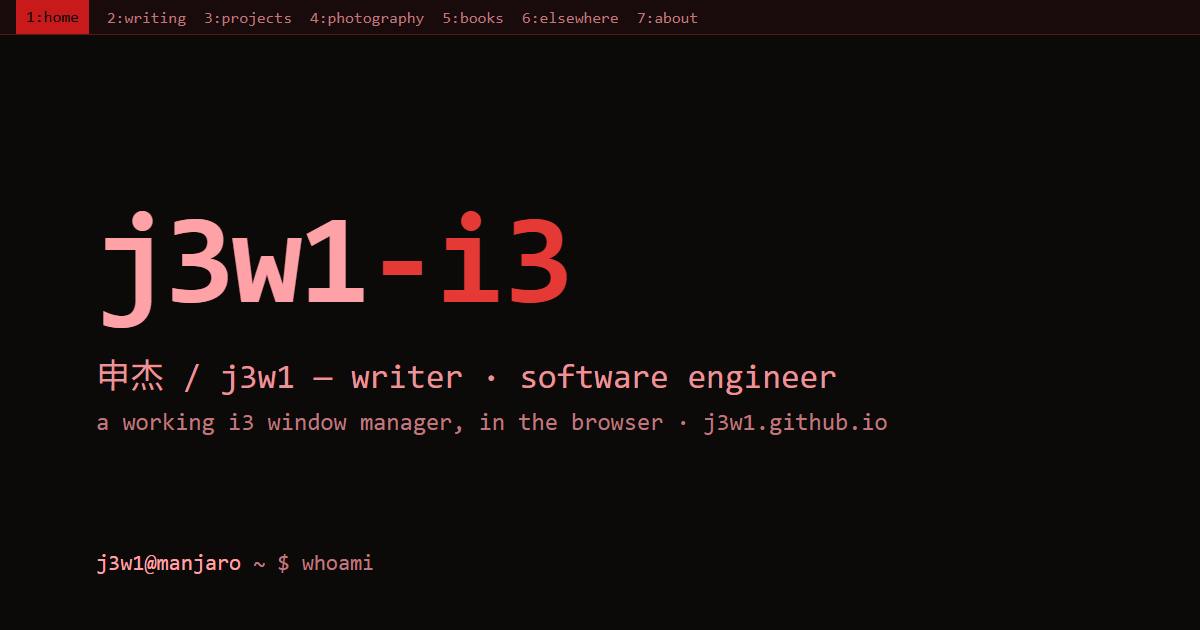
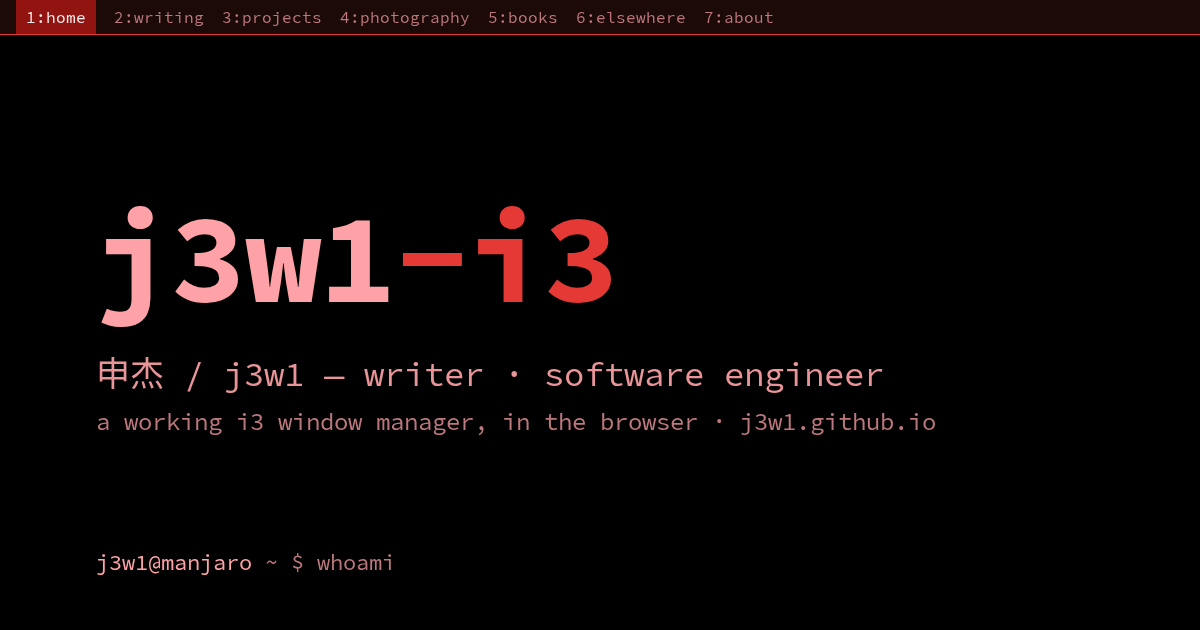
content: refresh identity, projects, links and about
The site's content last moved on 2026-09-04. Since then orchestrate became pod,
ce-metadata-reconciler became ce-metadata, and theme, pod and ce-signage are
public work. content/site.json now says so, and every surface follows:

- projects: eleven entries. pod, theme and ce-signage are added; Metadata
  Reconciler is CE Metadata; CE Governed Delivery and CE Systems are described
  as their repositories now describe them. CE Systems no longer claims
  MariaDB, which it does not use.
- home: the README and focus lines match the profile's current wording.
- about: current and public work name the same projects, with links; the
  interests add design systems and list what the work is actually done in.
- elsewhere: the theme portal and pod, seven links in all.

The social card is painted from the generated theme block, so it follows the
pin (true black now), and its fonts are inlined: a blank page could not load
them from file:// on Linux and fell back to a face with no glyphs for 申杰.

Both project statuslines now follow the selection; the detail window's was
static text that stayed on j3w1zsh.

diff --git a/index.html b/index.html
@@ -5,11 +5,11 @@
   <meta name="viewport" content="width=device-width, initial-scale=1">
   <!-- @generated-site:meta:start -->
   <title>j3w1 — Writer · Software Engineer</title>
-  <meta name="description" content="The personal workstation of 申杰 / j3w1 — writer and software engineer building business systems, developer tooling, and AI-assisted engineering workflows.">
+  <meta name="description" content="The personal workstation of 申杰 / j3w1 — writer and software engineer building governed execution tooling, business platforms, developer environments, and design systems.">
   <link rel="canonical" href="https://j3w1.github.io/">
   <meta property="og:site_name" content="j3w1">
   <meta property="og:title" content="j3w1 — Writer · Software Engineer">
-  <meta property="og:description" content="The personal workstation of 申杰 / j3w1 — writer and software engineer building business systems, developer tooling, and AI-assisted engineering workflows.">
+  <meta property="og:description" content="The personal workstation of 申杰 / j3w1 — writer and software engineer building governed execution tooling, business platforms, developer environments, and design systems.">
   <meta property="og:type" content="profile">
   <meta property="og:url" content="https://j3w1.github.io/">
   <meta property="og:image" content="https://j3w1.github.io/assets/social/default.png">
@@ -18,7 +18,7 @@
   <meta property="og:locale" content="en_US">
   <meta name="twitter:card" content="summary_large_image">
   <meta name="twitter:title" content="j3w1 — Writer · Software Engineer">
-  <meta name="twitter:description" content="The personal workstation of 申杰 / j3w1 — writer and software engineer building business systems, developer tooling, and AI-assisted engineering workflows.">
+  <meta name="twitter:description" content="The personal workstation of 申杰 / j3w1 — writer and software engineer building governed execution tooling, business platforms, developer environments, and design systems.">
   <meta name="twitter:image" content="https://j3w1.github.io/assets/social/default.png">
   <!-- @generated-site:meta:end -->
   <link rel="preload" href="/assets/fonts/sauce-code-pro-text.woff2?v=db62d388" as="font" type="font/woff2" crossorigin>
@@ -116,7 +116,7 @@
         "alternateName": "j3w1",
         "url": "https://j3w1.github.io/",
         "image": "https://j3w1.github.io/assets/social/default.png",
-        "description": "The personal workstation of 申杰 / j3w1 — writer and software engineer building business systems, developer tooling, and AI-assisted engineering workflows.",
+        "description": "The personal workstation of 申杰 / j3w1 — writer and software engineer building governed execution tooling, business platforms, developer environments, and design systems.",
         "jobTitle": [
           "Writer",
           "Software Engineer"
@@ -176,15 +176,16 @@
 
             <p class="terminal-line"><span class="shell-prompt agnoster"><span class="prompt-path">~</span><span class="prompt-mark" aria-hidden="true">&#xe0b0;</span><span class="prompt-space"> </span></span><span class="command">cat ~/j3w1/README</span></p>
             <div class="terminal-output readable-output" data-site-readme>
-              <p>I build the machinery behind dependable work: business platforms, developer environments, and delivery automation designed to be clear, secure, recoverable, and useful long after the first release.</p>
-              <p>My current work spans business systems, governed delivery, and developer tooling.</p>
+              <p>I build calm, dependable software for real work: governed execution tooling, business platforms, developer environments, and design systems — with clear contracts, useful evidence, and foundations meant to last.</p>
+              <p>Building now: pod, CE Systems, and CE Metadata. Public work: theme, j3w1zsh, and this site.</p>
             </div>
 
             <p class="terminal-line"><span class="shell-prompt agnoster"><span class="prompt-path">~</span><span class="prompt-mark" aria-hidden="true">&#xe0b0;</span><span class="prompt-space"> </span></span><span class="command">printf '%s\n' focus/*</span></p>
             <ul class="terminal-list" aria-label="Primary areas of focus">
-              <li><span>focus/systems</span> business operations</li>
-              <li><span>focus/tooling</span> resumable developer environments</li>
-              <li><span>focus/practice</span> governed delivery and automation</li>
+              <li><span>focus/systems</span> business platforms for real operations</li>
+              <li><span>focus/tooling</span> agent coordination and developer environments</li>
+              <li><span>focus/design</span> one design system, machine-readable</li>
+              <li><span>focus/practice</span> governed delivery, evidence, verification</li>
             </ul>
 
             <p class="terminal-line terminal-ready"><span class="shell-prompt agnoster"><span class="prompt-path">~</span><span class="prompt-mark" aria-hidden="true">&#xe0b0;</span><span class="prompt-space"> </span></span><span class="terminal-cursor" aria-hidden="true"></span></p>
@@ -224,10 +225,10 @@
               <div class="file-row file-header" aria-hidden="true"><span>Name</span><span>Type</span><span>State</span></div>
               <a class="file-row is-selected" href="#home" data-workspace-link="home"><span><span class="file-icon ui-icon" aria-hidden="true">&#xf07b;</span>home/</span><span>Workspace</span><span>open</span></a>
               <a class="file-row" href="#writing" data-workspace-link="writing"><span><span class="file-icon ui-icon" aria-hidden="true">&#xf044;</span>writing/</span><span>Vim buffer</span><span data-content-count="writing">0 entries</span></a>
-              <a class="file-row" href="#projects" data-workspace-link="projects"><span><span class="file-icon ui-icon" aria-hidden="true">&#xf0ae;</span>projects/</span><span>Application</span><span>8 entries</span></a>
+              <a class="file-row" href="#projects" data-workspace-link="projects"><span><span class="file-icon ui-icon" aria-hidden="true">&#xf0ae;</span>projects/</span><span>Application</span><span>11 entries</span></a>
               <a class="file-row" href="#photography" data-workspace-link="photography"><span><span class="file-icon ui-icon" aria-hidden="true">&#xf030;</span>photography/</span><span>Directory</span><span data-content-count="photography">0 entries</span></a>
               <a class="file-row" href="#books" data-workspace-link="books"><span><span class="file-icon ui-icon" aria-hidden="true">&#xf02d;</span>books/</span><span>Library</span><span data-content-count="books">0 entries</span></a>
-              <a class="file-row" href="#elsewhere" data-workspace-link="elsewhere"><span><span class="file-icon ui-icon" aria-hidden="true">&#xf0ac;</span>elsewhere/</span><span>Links</span><span>5 entries</span></a>
+              <a class="file-row" href="#elsewhere" data-workspace-link="elsewhere"><span><span class="file-icon ui-icon" aria-hidden="true">&#xf0ac;</span>elsewhere/</span><span>Links</span><span>7 entries</span></a>
               <a class="file-row" href="#about" data-workspace-link="about"><span><span class="file-icon ui-icon" aria-hidden="true">&#xf129;</span>about/</span><span>Vim buffer</span><span>readable</span></a>
             </div>
             <!-- @generated-site:home-files:end -->
@@ -272,11 +273,11 @@
       <div class="workspace-layer projects-grid" data-wm-layer="projects">
         <!-- @generated-site:projects:start -->
         <article class="window pane project-window is-focused" data-wm-window="projects-table" data-wm-title="projects" tabindex="0" aria-label="Projects application">
-          <header class="window-titlebar"><span>[8 entries] projects — j3w1</span><span class="window-marks" aria-hidden="true">─ □ ×</span></header>
+          <header class="window-titlebar"><span>[11 entries] projects — j3w1</span><span class="window-marks" aria-hidden="true">─ □ ×</span></header>
           <div class="app-menu" aria-hidden="true"><span>Project</span><span>Edit</span><span>View</span><span>Tools</span><span>Help</span></div>
           <div class="project-toolbar">
-            <button class="toolbar-label project-filter-button" type="button" data-project-visibility="all" aria-pressed="true"><span class="ui-icon" aria-hidden="true">&#xf0ae;</span><span class="project-filter-label">All projects</span><span data-project-count="all">(8)</span></button>
-            <button class="toolbar-label project-filter-button" type="button" data-project-visibility="public" aria-pressed="false"><span class="ui-icon" aria-hidden="true">&#xf0ac;</span><span class="project-filter-label">Public</span><span data-project-count="public">(5)</span></button>
+            <button class="toolbar-label project-filter-button" type="button" data-project-visibility="all" aria-pressed="true"><span class="ui-icon" aria-hidden="true">&#xf0ae;</span><span class="project-filter-label">All projects</span><span data-project-count="all">(11)</span></button>
+            <button class="toolbar-label project-filter-button" type="button" data-project-visibility="public" aria-pressed="false"><span class="ui-icon" aria-hidden="true">&#xf0ac;</span><span class="project-filter-label">Public</span><span data-project-count="public">(8)</span></button>
             <button class="toolbar-label project-filter-button" type="button" data-project-visibility="internal" aria-pressed="false"><span class="ui-icon" aria-hidden="true">&#xf023;</span><span class="project-filter-label">Internal</span><span data-project-count="internal">(3)</span></button>
             <label class="filter-field" for="project-filter"><span class="ui-icon" aria-hidden="true">&#xf002;</span><span class="sr-only">Filter projects</span><input id="project-filter" type="search" autocomplete="off" placeholder="Filter project name…"></label>
           </div>
@@ -293,35 +294,41 @@
                 </colgroup>
                 <thead><tr><th scope="col">#</th><th scope="col">Name</th><th scope="col">Type / stack</th><th scope="col">State</th><th scope="col">Repository</th></tr></thead>
                 <tbody>
-                  <tr data-project-row="ce-systems" data-visibility="internal"><td><button class="project-selector" type="button" data-project="ce-systems" aria-pressed="false" aria-label="Show CE Systems details">01</button></td><td>CE Systems</td><td>Laravel · PHP · Vue</td><td>Active</td><td>Private / internal</td></tr>
-                  <tr data-project-row="ce-gd" data-visibility="internal"><td><button class="project-selector" type="button" data-project="ce-gd" aria-pressed="false" aria-label="Show CE Governed Delivery details">02</button></td><td>CE Governed Delivery</td><td>Evidence · Review · Controls</td><td>Active</td><td>Private / internal</td></tr>
-                  <tr data-project-row="metadata-reconciler" data-visibility="internal"><td><button class="project-selector" type="button" data-project="metadata-reconciler" aria-pressed="false" aria-label="Show Metadata Reconciler details">03</button></td><td>Metadata Reconciler</td><td>GitHub · Metadata · Automation</td><td>Active</td><td>Private / internal</td></tr>
-                  <tr class="is-selected" data-project-row="j3w1zsh" data-visibility="public"><td><button class="project-selector" type="button" data-project="j3w1zsh" aria-pressed="true" aria-label="Show j3w1zsh details">04</button></td><td>j3w1zsh</td><td>Shell · Zsh · Arch · WSL</td><td>Maintained</td><td><a href="https://github.com/j3w1/j3w1zsh">GitHub ↗</a></td></tr>
-                  <tr data-project-row="1688tocsv" data-visibility="public"><td><button class="project-selector" type="button" data-project="1688tocsv" aria-pressed="false" aria-label="Show 1688toCSV details">05</button></td><td>1688toCSV</td><td>JavaScript · Chrome · CSV</td><td>Current</td><td><a href="https://github.com/j3w1/1688toCSV">GitHub ↗</a></td></tr>
-                  <tr data-project-row="website" data-visibility="public"><td><button class="project-selector" type="button" data-project="website" aria-pressed="false" aria-label="Show j3w1.github.io details">06</button></td><td>j3w1.github.io</td><td>HTML · CSS · JavaScript</td><td>Active</td><td><a href="https://github.com/j3w1/j3w1.github.io">GitHub ↗</a></td></tr>
-                  <tr data-project-row="1w3j" data-visibility="public"><td><button class="project-selector" type="button" data-project="1w3j" aria-pressed="false" aria-label="Show 1w3j details">07</button></td><td>1w3j</td><td>Shell · dotfiles · themes</td><td>Legacy</td><td><a href="https://github.com/j3w1/1w3j">GitHub ↗</a></td></tr>
-                  <tr data-project-row="ce-desktop" data-visibility="public"><td><button class="project-selector" type="button" data-project="ce-desktop" aria-pressed="false" aria-label="Show CE Desktop details">08</button></td><td>CE Desktop</td><td>Java · JavaFX</td><td>Historical</td><td><a href="https://github.com/j3w1/CEDesktop">GitHub ↗</a></td></tr>
+                  <tr data-project-row="pod" data-visibility="public"><td><button class="project-selector" type="button" data-project="pod" aria-pressed="false" aria-label="Show pod details">01</button></td><td>pod</td><td>Python · Agent skills · Orca</td><td>Active</td><td><a href="https://github.com/j3w1/pod">GitHub ↗</a></td></tr>
+                  <tr data-project-row="ce-systems" data-visibility="internal"><td><button class="project-selector" type="button" data-project="ce-systems" aria-pressed="false" aria-label="Show CE Systems details">02</button></td><td>CE Systems</td><td>Laravel · Vue · TypeScript</td><td>Active</td><td>Private / internal</td></tr>
+                  <tr data-project-row="ce-gd" data-visibility="internal"><td><button class="project-selector" type="button" data-project="ce-gd" aria-pressed="false" aria-label="Show CE Governed Delivery details">03</button></td><td>CE Governed Delivery</td><td>Controller · Review · Reconciliation</td><td>Active</td><td>Private / internal</td></tr>
+                  <tr data-project-row="ce-metadata" data-visibility="internal"><td><button class="project-selector" type="button" data-project="ce-metadata" aria-pressed="false" aria-label="Show CE Metadata details">04</button></td><td>CE Metadata</td><td>GitHub · Metadata · Control plane</td><td>Active</td><td>Private / internal</td></tr>
+                  <tr data-project-row="theme" data-visibility="public"><td><button class="project-selector" type="button" data-project="theme" aria-pressed="false" aria-label="Show theme details">05</button></td><td>theme</td><td>Design tokens · Components · Accessibility</td><td>Active</td><td><a href="https://github.com/j3w1/theme">GitHub ↗</a></td></tr>
+                  <tr class="is-selected" data-project-row="j3w1zsh" data-visibility="public"><td><button class="project-selector" type="button" data-project="j3w1zsh" aria-pressed="true" aria-label="Show j3w1zsh details">06</button></td><td>j3w1zsh</td><td>Shell · Zsh · Arch · WSL · Termux</td><td>Maintained</td><td><a href="https://github.com/j3w1/j3w1zsh">GitHub ↗</a></td></tr>
+                  <tr data-project-row="website" data-visibility="public"><td><button class="project-selector" type="button" data-project="website" aria-pressed="false" aria-label="Show j3w1.github.io details">07</button></td><td>j3w1.github.io</td><td>HTML · CSS · JavaScript</td><td>Active</td><td><a href="https://github.com/j3w1/j3w1.github.io">GitHub ↗</a></td></tr>
+                  <tr data-project-row="ce-signage" data-visibility="public"><td><button class="project-selector" type="button" data-project="ce-signage" aria-pressed="false" aria-label="Show ce-signage details">08</button></td><td>ce-signage</td><td>PowerShell · FFmpeg · VLC</td><td>Current</td><td><a href="https://github.com/j3w1/ce-signage">GitHub ↗</a></td></tr>
+                  <tr data-project-row="1688tocsv" data-visibility="public"><td><button class="project-selector" type="button" data-project="1688tocsv" aria-pressed="false" aria-label="Show 1688toCSV details">09</button></td><td>1688toCSV</td><td>JavaScript · Chrome · CSV</td><td>Current</td><td><a href="https://github.com/j3w1/1688toCSV">GitHub ↗</a></td></tr>
+                  <tr data-project-row="1w3j" data-visibility="public"><td><button class="project-selector" type="button" data-project="1w3j" aria-pressed="false" aria-label="Show 1w3j details">10</button></td><td>1w3j</td><td>Shell · dotfiles · themes</td><td>Legacy</td><td><a href="https://github.com/j3w1/1w3j">GitHub ↗</a></td></tr>
+                  <tr data-project-row="ce-desktop" data-visibility="public"><td><button class="project-selector" type="button" data-project="ce-desktop" aria-pressed="false" aria-label="Show CE Desktop details">11</button></td><td>CE Desktop</td><td>Java · JavaFX</td><td>Historical</td><td><a href="https://github.com/j3w1/CEDesktop">GitHub ↗</a></td></tr>
                 </tbody>
               </table>
             </div>
           </div>
-          <footer class="app-statusline"><span>8 entries</span><span>5 public</span><span>3 internal</span><span class="status-fill">selection: <span id="project-status-selection">j3w1zsh</span></span></footer>
+          <footer class="app-statusline"><span>11 entries</span><span>8 public</span><span>3 internal</span><span class="status-fill">selection: <span id="project-status-selection" data-project-selection>j3w1zsh</span></span></footer>
         </article>
 
         <article class="window pane project-window" data-wm-window="projects-detail" data-wm-title="project detail" tabindex="0" aria-label="Project detail">
           <header class="window-titlebar"><span>project detail — j3w1</span><span class="window-marks" aria-hidden="true">─ □ ×</span></header>
           <div class="project-detail-pane" aria-live="polite">
             <p id="project-no-results" class="compact-state" hidden>No projects match this view.</p>
-            <article class="project-detail" data-project-detail="ce-systems"><header><span>CE Systems</span><span>private / internal · active</span></header><p>An internal business operations platform for Casa Elida, covering retail, inventory, purchasing, imports and logistics, finance, and organizational workflows.</p><dl><div><dt>Stack</dt><dd>Laravel · PHP · Vue · TypeScript · MariaDB</dd></div><div><dt>Context</dt><dd>Business systems for real operations</dd></div><div><dt>Repository</dt><dd>Private; no public link</dd></div></dl></article>
-            <article class="project-detail" data-project-detail="ce-gd"><header><span>CE Governed Delivery</span><span>private / internal · active</span></header><p>An isolated, evidence-driven engineering-governance initiative focused on bounded AI assistance, delivery control, and dependable human decision points.</p><dl><div><dt>Practice</dt><dd>Evidence · Review · Delivery controls</dd></div><div><dt>Context</dt><dd>Engineering governance</dd></div><div><dt>Repository</dt><dd>Private; no public link</dd></div></dl></article>
-            <article class="project-detail" data-project-detail="metadata-reconciler"><header><span>Metadata Reconciler</span><span>private / internal · active</span></header><p>A deterministic GitHub metadata-operations project for reconciling repository metadata through explicit, reviewable automation.</p><dl><div><dt>Practice</dt><dd>GitHub automation · Metadata · Reconciliation</dd></div><div><dt>Context</dt><dd>Delivery operations</dd></div><div><dt>Repository</dt><dd>Private; no public link</dd></div></dl></article>
+            <article class="project-detail" data-project-detail="pod"><header><span>pod</span><span>public · active</span></header><p>Turns the Codex or Claude Code session already open in Orca into the coordinator of a pod of agents: it plans the objective, chooses direct work or workers in isolated worktrees, and binds every result to its evidence.</p><dl><div><dt>Install</dt><dd>npx skills add j3w1/pod --skill pod</dd></div><div><dt>Context</dt><dd>Agent coordination</dd></div><div><dt>Repository</dt><dd><a href="https://github.com/j3w1/pod">github.com/j3w1/pod ↗</a></dd></div></dl></article>
+            <article class="project-detail" data-project-detail="ce-systems"><header><span>CE Systems</span><span>private / internal · active</span></header><p>Casa Elida's modular enterprise platform for retail, inventory, purchasing, logistics, finance, people operations, ecommerce, and reporting.</p><dl><div><dt>Stack</dt><dd>Laravel · PHP · Vue · TypeScript</dd></div><div><dt>Context</dt><dd>Business systems for real operations</dd></div><div><dt>Repository</dt><dd>Private; no public link</dd></div></dl></article>
+            <article class="project-detail" data-project-detail="ce-gd"><header><span>CE Governed Delivery</span><span>private / internal · active</span></header><p>A credential-isolated controller for governed CE Systems review, correction, merge, and delivery reconciliation, keeping AI assistance bounded and human decision points dependable.</p><dl><div><dt>Practice</dt><dd>Governed review · Bounded merge · Delivery reconciliation</dd></div><div><dt>Context</dt><dd>Engineering governance</dd></div><div><dt>Repository</dt><dd>Private; no public link</dd></div></dl></article>
+            <article class="project-detail" data-project-detail="ce-metadata"><header><span>CE Metadata</span><span>private / internal · active</span></header><p>A deterministic control plane for GitHub metadata, with reviewable plans, bounded writes, and exact readback.</p><dl><div><dt>Practice</dt><dd>Reviewable plans · Bounded writes · Exact readback</dd></div><div><dt>Context</dt><dd>Delivery operations</dd></div><div><dt>Repository</dt><dd>Private; no public link</dd></div></dl></article>
+            <article class="project-detail" data-project-detail="theme"><header><span>theme</span><span>public · active</span></header><p>The canonical j3w1 design system: tokens, components, accessibility rules, ports, and machine-readable exports. This site consumes its approved default profile as a pinned CSS-variable export.</p><dl><div><dt>Portal</dt><dd><a href="https://j3w1.github.io/theme/">j3w1.github.io/theme/ ↗</a></dd></div><div><dt>Context</dt><dd>Design system</dd></div><div><dt>Repository</dt><dd><a href="https://github.com/j3w1/theme">github.com/j3w1/theme ↗</a></dd></div></dl></article>
             <article class="project-detail is-selected" data-project-detail="j3w1zsh"><header><span>j3w1zsh</span><span>public · maintained</span></header><p>A portable, resumable Zsh workstation framework for native Arch Linux, Arch WSL 2, and Termux, with presets, themes, project workspaces, migration, and remote-session support.</p><dl><div><dt>Stack</dt><dd>Shell · Zsh · Arch Linux · WSL · Termux</dd></div><div><dt>Context</dt><dd>Current public workstation framework</dd></div><div><dt>Repository</dt><dd><a href="https://github.com/j3w1/j3w1zsh">github.com/j3w1/j3w1zsh ↗</a></dd></div></dl></article>
+            <article class="project-detail" data-project-detail="website"><header><span>j3w1.github.io</span><span>public · active</span></header><p>The dependency-free source for this site: a working i3 window manager in the browser, published verbatim by GitHub Pages.</p><dl><div><dt>Stack</dt><dd>Semantic HTML · CSS · Vanilla JavaScript</dd></div><div><dt>Context</dt><dd>Personal website</dd></div><div><dt>Repository</dt><dd><a href="https://github.com/j3w1/j3w1.github.io">github.com/j3w1/j3w1.github.io ↗</a></dd></div></dl></article>
+            <article class="project-detail" data-project-detail="ce-signage"><header><span>ce-signage</span><span>public · current</span></header><p>Digital signage for Casa Elida's Windows 10 cashier PCs: cashiers drop images and videos into a folder, and a controller validates them with FFmpeg, rebuilds a randomized playlist, and plays it fullscreen on the second monitor.</p><dl><div><dt>Stack</dt><dd>PowerShell · FFmpeg · VLC · Windows 10</dd></div><div><dt>Context</dt><dd>Retail operations</dd></div><div><dt>Repository</dt><dd><a href="https://github.com/j3w1/ce-signage">github.com/j3w1/ce-signage ↗</a></dd></div></dl></article>
             <article class="project-detail" data-project-detail="1688tocsv"><header><span>1688toCSV</span><span>public · current</span></header><p>A compact Chrome extension that exports 1688.com order details into a clean CSV for practical downstream use.</p><dl><div><dt>Stack</dt><dd>JavaScript · Browser extension · CSV</dd></div><div><dt>Context</dt><dd>Focused order-data export</dd></div><div><dt>Repository</dt><dd><a href="https://github.com/j3w1/1688toCSV">github.com/j3w1/1688toCSV ↗</a></dd></div></dl></article>
-            <article class="project-detail" data-project-detail="website"><header><span>j3w1.github.io</span><span>public · active</span></header><p>The dependency-free source for this personal site, published directly by GitHub Pages.</p><dl><div><dt>Stack</dt><dd>Semantic HTML · CSS · Vanilla JavaScript</dd></div><div><dt>Context</dt><dd>Personal website</dd></div><div><dt>Repository</dt><dd><a href="https://github.com/j3w1/j3w1.github.io">github.com/j3w1/j3w1.github.io ↗</a></dd></div></dl></article>
-            <article class="project-detail" data-project-detail="1w3j"><header><span>1w3j</span><span>public · legacy</span></header><p>An earlier generation of personal Linux workstation configuration, scripts, themes, package lists, and bootstrap tooling. j3w1zsh is the current public workstation framework.</p><dl><div><dt>Period</dt><dd>2017–2021</dd></div><div><dt>Context</dt><dd>Preserved workstation history</dd></div><div><dt>Repository</dt><dd><a href="https://github.com/j3w1/1w3j">github.com/j3w1/1w3j ↗</a></dd></div></dl></article>
-            <article class="project-detail" data-project-detail="ce-desktop"><header><span>CE Desktop</span><span>public · historical</span></header><p>An earlier JavaFX enterprise desktop application prototype, preserved as part of the public project history.</p><dl><div><dt>Stack</dt><dd>Java · JavaFX</dd></div><div><dt>Context</dt><dd>Enterprise desktop prototype</dd></div><div><dt>Repository</dt><dd><a href="https://github.com/j3w1/CEDesktop">github.com/j3w1/CEDesktop ↗</a></dd></div></dl></article>
+            <article class="project-detail" data-project-detail="1w3j"><header><span>1w3j</span><span>public · legacy</span></header><p>An earlier generation of personal Linux workstation configuration, scripts, themes, package lists, and bootstrap tooling. j3w1zsh is the current public workstation framework, and this site's desktop is its reinterpretation.</p><dl><div><dt>Period</dt><dd>2017–2021</dd></div><div><dt>Context</dt><dd>Preserved workstation history</dd></div><div><dt>Repository</dt><dd><a href="https://github.com/j3w1/1w3j">github.com/j3w1/1w3j ↗</a></dd></div></dl></article>
+            <article class="project-detail" data-project-detail="ce-desktop"><header><span>CE Desktop</span><span>public · historical</span></header><p>An earlier JavaFX prototype for a Material Design Casa Elida enterprise desktop application, preserved as part of the public project history.</p><dl><div><dt>Stack</dt><dd>Java · JavaFX</dd></div><div><dt>Context</dt><dd>Enterprise desktop prototype</dd></div><div><dt>Repository</dt><dd><a href="https://github.com/j3w1/CEDesktop">github.com/j3w1/CEDesktop ↗</a></dd></div></dl></article>
           </div>
-          <footer class="app-statusline"><span>detail</span><span class="status-fill">selection: j3w1zsh</span></footer>
+          <footer class="app-statusline"><span>detail</span><span class="status-fill">selection: <span data-project-selection>j3w1zsh</span></span></footer>
         </article>
         <!-- @generated-site:projects:end -->
 
@@ -396,11 +403,13 @@
           <header class="window-titlebar"><span>j3w1@manjaro: ~/elsewhere</span><span class="window-marks" aria-hidden="true">─ □ ×</span></header>
           <div class="terminal-buffer" role="document">
             <p class="terminal-line"><span class="prompt-user">j3w1</span><span class="prompt-at">@</span><span class="prompt-host">manjaro</span><span class="prompt-path"> ~/elsewhere</span><span class="prompt-mark"> $ </span><span class="command">ls -l</span></p>
-            <p class="terminal-output terminal-muted">total 5</p>
+            <p class="terminal-output terminal-muted">total 7</p>
             <ul class="link-list" aria-label="Public external destinations">
               <li><span class="permissions" aria-hidden="true">lrwxrwxrwx</span><a href="/wiki/">wiki</a><span aria-hidden="true"> → </span><span>how to use this workstation</span></li>
               <li><span class="permissions" aria-hidden="true">lrwxrwxrwx</span><a href="https://github.com/j3w1" rel="me">github</a><span aria-hidden="true"> → </span><span>https://github.com/j3w1</span></li>
               <li><span class="permissions" aria-hidden="true">lrwxrwxrwx</span><a href="https://github.com/j3w1/j3w1.github.io">site-source</a><span aria-hidden="true"> → </span><span>https://github.com/j3w1/j3w1.github.io</span></li>
+              <li><span class="permissions" aria-hidden="true">lrwxrwxrwx</span><a href="https://j3w1.github.io/theme/">theme</a><span aria-hidden="true"> → </span><span>the j3w1 design system</span></li>
+              <li><span class="permissions" aria-hidden="true">lrwxrwxrwx</span><a href="https://github.com/j3w1/pod">pod</a><span aria-hidden="true"> → </span><span>https://github.com/j3w1/pod</span></li>
               <li><span class="permissions" aria-hidden="true">lrwxrwxrwx</span><a href="https://github.com/j3w1/j3w1zsh">current-workstation</a><span aria-hidden="true"> → </span><span>https://github.com/j3w1/j3w1zsh</span></li>
               <li><span class="permissions" aria-hidden="true">lrwxrwxrwx</span><a href="https://github.com/j3w1/1w3j">legacy-workstation</a><span aria-hidden="true"> → </span><span>https://github.com/j3w1/1w3j</span></li>
             </ul>
@@ -408,7 +417,7 @@
             <p class="terminal-output readable-output">GitHub is the only public profile linked from this site.</p>
             <p class="terminal-line terminal-ready"><span class="prompt-user">j3w1</span><span class="prompt-at">@</span><span class="prompt-host">manjaro</span><span class="prompt-path"> ~/elsewhere</span><span class="prompt-mark"> $ </span><span class="terminal-cursor" aria-hidden="true"></span></p>
           </div>
-          <footer class="terminal-statusline"><span>URxvt</span><span>5 links</span><span class="status-fill">~/elsewhere</span></footer>
+          <footer class="terminal-statusline"><span>URxvt</span><span>7 links</span><span class="status-fill">~/elsewhere</span></footer>
         </article>
         <!-- @generated-site:elsewhere:end -->
         <div class="wm-empty" data-wm-empty hidden>
@@ -432,11 +441,11 @@
             <div class="prose-line prose-line-blank" data-line="3"><span></span></div>
             <div class="prose-line" data-line="4"><p>I work on software that has to survive contact with real organizations: business systems, operational workflows, and the tools engineers use to build and maintain them.</p></div>
             <div class="prose-line prose-line-blank" data-line="5"><span></span></div>
-            <div class="prose-line" data-line="6"><p>My interests connect software architecture with writing and developer environments. I care about clear boundaries, recoverable workflows, evidence that can be checked, and systems that remain understandable after the original implementation context is gone.</p></div>
+            <div class="prose-line" data-line="6"><p>My interests connect software architecture with writing and developer environments. I care about clear contracts, recoverable workflows, evidence that can be checked, and systems that remain understandable after the original implementation context is gone.</p></div>
             <div class="prose-line prose-line-blank" data-line="7"><span></span></div>
-            <div class="prose-line" data-line="8"><p>Current work includes CE Systems, an internal operations platform for Casa Elida; CE Governed Delivery, an evidence-driven engineering-governance effort; and Metadata Reconciler, deterministic GitHub metadata operations.</p></div>
+            <div class="prose-line" data-line="8"><p>Current work includes <a href="https://github.com/j3w1/pod">pod</a>, which turns an Orca coding session into the coordinator of a pod of agents; CE Systems, Casa Elida's modular enterprise platform; CE Governed Delivery, a credential-isolated controller for governed review, merge, and delivery; and CE Metadata, a deterministic control plane for GitHub metadata.</p></div>
             <div class="prose-line prose-line-blank" data-line="9"><span></span></div>
-            <div class="prose-line current-line" data-line="10"><p>Public work includes <a href="https://github.com/j3w1/j3w1zsh">j3w1zsh</a>, a portable, resumable Zsh workstation framework for Arch Linux, WSL, and Termux; <a href="https://github.com/j3w1/1688toCSV">1688toCSV</a>, a focused browser extension for practical order-data export; and <a href="https://github.com/j3w1/j3w1.github.io">the source for this site</a>.</p></div>
+            <div class="prose-line current-line" data-line="10"><p>Public work includes <a href="https://github.com/j3w1/theme">theme</a>, the canonical j3w1 design system this site is dressed in; <a href="https://github.com/j3w1/j3w1zsh">j3w1zsh</a>, a portable, resumable workstation framework for Arch Linux, Arch WSL 2, and Termux; <a href="https://github.com/j3w1/ce-signage">ce-signage</a>, digital signage for Casa Elida's cashier PCs; <a href="https://github.com/j3w1/1688toCSV">1688toCSV</a>, a focused browser extension for order-data export; and <a href="https://github.com/j3w1/j3w1.github.io">the source for this site</a>.</p></div>
           </div>
           <footer class="vim-statusline"><span class="vim-mode">NORMAL</span><span>about.md</span><span class="status-fill">utf-8 · markdown</span><span>10,1</span></footer>
         </article>
@@ -446,11 +455,12 @@
             <div class="prose-line" data-line="1"><p class="syntax-heading">## working interests</p></div>
             <div class="prose-line prose-line-blank" data-line="2"><span></span></div>
             <div class="prose-line about-list-line" data-line="3"><p><span>· business systems</span> operational software, architecture, data, and organizational workflows</p></div>
-            <div class="prose-line about-list-line" data-line="4"><p><span>· engineering systems</span> developer tooling, automation, review evidence, and delivery controls</p></div>
-            <div class="prose-line about-list-line" data-line="5"><p><span>· writing environments</span> Linux, Arch, WSL, Termux, Neovim, tmux, and JetBrains tooling</p></div>
-            <div class="prose-line about-list-line current-line" data-line="6"><p><span>· selected stack</span> Laravel, PHP, Vue, TypeScript, MariaDB, Redis, and GitHub Actions</p></div>
+            <div class="prose-line about-list-line" data-line="4"><p><span>· engineering systems</span> governed execution, agent coordination, developer tooling, review evidence, and delivery controls</p></div>
+            <div class="prose-line about-list-line" data-line="5"><p><span>· design systems</span> tokens, components, accessibility rules, and machine-readable exports</p></div>
+            <div class="prose-line about-list-line" data-line="6"><p><span>· writing environments</span> Linux, Arch, WSL, Termux, Neovim, tmux, and JetBrains tooling</p></div>
+            <div class="prose-line about-list-line current-line" data-line="7"><p><span>· working with</span> Python, TypeScript, JavaScript, Laravel, Vue, Shell, GitHub Actions, and testing and verification</p></div>
           </div>
-          <footer class="vim-statusline"><span class="vim-mode">NORMAL</span><span>interests.md</span><span class="status-fill">utf-8 · markdown</span><span>6,1</span></footer>
+          <footer class="vim-statusline"><span class="vim-mode">NORMAL</span><span>interests.md</span><span class="status-fill">utf-8 · markdown</span><span>7,1</span></footer>
         </article>
         <!-- @generated-site:about:end -->
         <div class="wm-empty" data-wm-empty hidden>

diff --git a/test/browser/wm.spec.js b/test/browser/wm.spec.js
@@ -208,6 +208,7 @@ test("Alt+dragging a title bar floats a window and keeps it on screen", async ({
 test("an ordinary click still selects a project row rather than starting a drag", async ({ page }) => {
   await open(page, "/#projects");
   await page.locator('[data-project-row="1688tocsv"] .project-selector').click();
+  await expect(page.locator("[data-project-selection]")).toHaveText(["1688toCSV", "1688toCSV"]);
   await expect(page.locator('[data-project-detail="1688tocsv"]')).toHaveClass(/is-selected/);
   await expect(page.locator("#project-status-selection")).toHaveText("1688toCSV");
 });

diff --git a/assets/js/site.js b/assets/js/site.js
@@ -177,8 +177,9 @@ const selectProject = (projectId) => {
     candidate.classList.toggle("is-selected", candidate === detail);
   });
 
-  const selectionStatus = document.querySelector("#project-status-selection");
-  if (selectionStatus) selectionStatus.textContent = row.cells[1]?.textContent.trim() ?? projectId;
+  /* Both windows' statuslines report the selection. */
+  const name = row.cells[1]?.textContent.trim() ?? projectId;
+  document.querySelectorAll("[data-project-selection]").forEach((status) => { status.textContent = name; });
 };
 
 const applyProjectFilters = () => {
